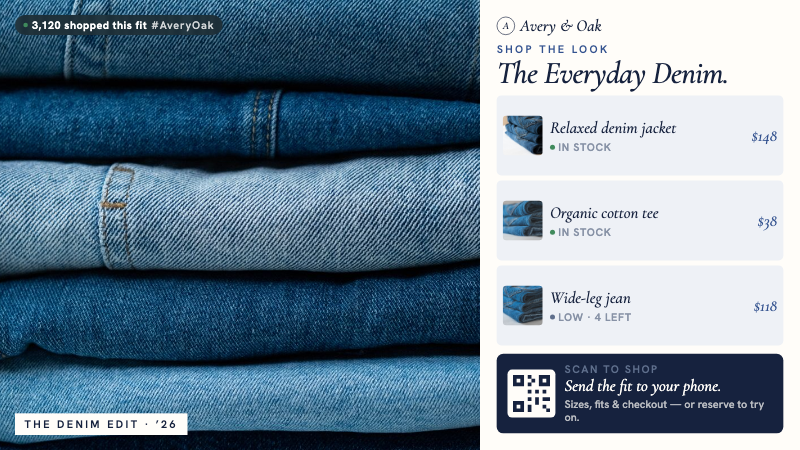
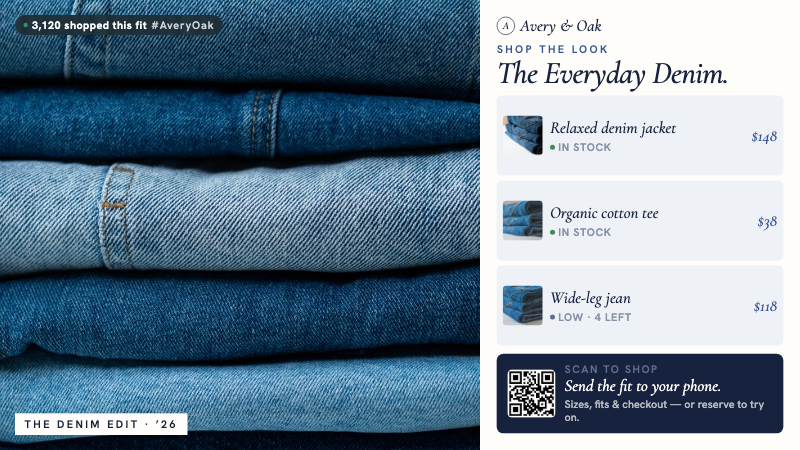
feat(templates): editable QR codes — paste a link, the QR regenerates
Greg: "all the QR codes that are baked in aren't editable, where do they even
take you? you should be able to dump in your website link and it updates."

Editor (PropertiesPanel): QR image slots (key ~/qr/) now get a QrUrlField —
paste a URL and it generates the QR client-side with the `qrcode` pkg
(dynamic import) and stores the PNG data-URL as the slot's image override.
Baked as a data-URL, so it scans even offline on the player. Manual image
pick still available as a fallback.

Boards: retail end-caps already had data-imgslot QR slots -> editable now with
zero board change. Fashion 01/04 static-SVG QRs retrofitted to
data-imgslot="scan.qr" (fallback SVG hides once a real QR is set) and baked a
real default QR (was a fake SVG that encoded nothing). Render-verified: default
shows a scannable QR; a pasted URL updates it on the board.

Remaining QR boards (fashion 07/08 variant markup + bar/church/gym/hospitality/
qsr/menus) use the same retrofit — follow-up.

Changed region(s): [[0.625, 0.8089, 0.7188, 0.9333]]

diff --git a/apps/web/public/templates/signage/fashion/04-new-arrivals.html b/apps/web/public/templates/signage/fashion/04-new-arrivals.html
@@ -47,7 +47,7 @@ html,body{margin:0;padding:0;height:100%;width:100%;background:#000;overflow:hid
 .stage[data-orient="portrait"] .top{flex-wrap:wrap}
 .stage[data-orient="portrait"] .scan{flex-wrap:wrap}
 .stage[data-orient="portrait"] .scan .members{margin-left:0}
-</style><script>/*EDUCMS-SHIM-V7*/(function(){try{
+.qr[data-imgslot].has-img{background-size:contain;background-repeat:no-repeat;background-position:center}.qr[data-imgslot].has-img>svg{display:none}</style><script>/*EDUCMS-SHIM-V7*/(function(){try{
 var editMode=false;
 // ── Gallery FREEZE mode ──────────────────────────────────────────────
 // Installed FIRST (this script is at end of <head>, before the board's own
@@ -93,7 +93,7 @@ addEventListener('message',function(e){try{var d=e.data;if(!d||typeof d!=='objec
     <article class="card" data-widget="a.3"><div class="ph placeholder" data-imgslot="a3.photo" data-img="/templates/signage/fashion/_img/04-sneaker-4.jpg"><div class="new" data-field="a3.tag">New</div><div class="stk"><span class="sd"></span><span data-field="a3.stk">In stock</span></div><div class="drop"><svg viewBox="0 0 24 24" fill="none" stroke="currentColor" stroke-width="1.4"><rect x="3" y="4" width="18" height="16" rx="2"/><circle cx="8.5" cy="9.5" r="1.8"/><path d="M21 16l-5-5L5 20"/></svg><b>Product photo</b></div></div><div class="b"><div class="nm" data-field="a3.name">Hi-Top Canvas</div><div class="price" data-field="a3.price">$95</div></div></article>
   </section>
   <div class="scan" data-widget="scan">
-    <div class="qr" aria-hidden="true"><svg viewBox="0 0 100 100" fill="#12141a"><path d="M0 0h30v30H0zM10 10v10h10V10zM70 0h30v30H70zM80 10v10h10V10zM0 70h30v30H0zM10 80v10h10V80zM40 0h10v10H40zM50 10h10v10H50zM40 20h10v10H40zM40 40h10v10H40zM60 40h10v10H60zM80 40h10v10H80zM40 60h10v10H40zM60 60h10v20H60zM80 60h20v10H80zM40 80h10v20H40zM80 80h10v10H80zM90 90h10v10H90z"/></svg></div>
[1 lines of base64/hex data omitted]
     <div><div class="l" data-field="scan.l">Scan to shop new</div><div class="v" data-field="scan.v">The full drop, sizes &amp; checkout — on your phone.</div></div>
     <div class="members"><div class="l2" data-field="scan.ml">Members</div><div class="v2" data-field="scan.mv">First pairs Thursday, 6 PM</div></div>
   </div>

diff --git a/apps/web/public/templates/signage/fashion/01-lookbook-flagship.html b/apps/web/public/templates/signage/fashion/01-lookbook-flagship.html
@@ -62,7 +62,7 @@ html,body{margin:0;padding:0;height:100%;width:100%;background:#000;overflow:hid
 .stage[data-orient="portrait"] .frame{grid-template-columns:1fr;grid-template-rows:1.25fr 1fr}
 .stage[data-orient="portrait"] .head h1{font-size:120px}
 .stage[data-orient="portrait"] .items{flex:none;margin-top:36px}
-</style><script>/*EDUCMS-SHIM-V7*/(function(){try{
+.qr[data-imgslot].has-img{background-size:contain;background-repeat:no-repeat;background-position:center}.qr[data-imgslot].has-img>svg{display:none}</style><script>/*EDUCMS-SHIM-V7*/(function(){try{
 var editMode=false;
 // ── Gallery FREEZE mode ──────────────────────────────────────────────
 // Installed FIRST (this script is at end of <head>, before the board's own
@@ -117,7 +117,7 @@ addEventListener('message',function(e){try{var d=e.data;if(!d||typeof d!=='objec
       <div class="item" data-widget="i.2"><div class="thumb" data-imgslot="i2.photo" data-img="/templates/signage/fashion/_img/01-thumb-jean.jpg"><div class="ph"><svg viewBox="0 0 24 24" fill="none" stroke="currentColor" stroke-width="1.5"><rect x="3" y="4" width="18" height="16" rx="2"/><circle cx="8.5" cy="9.5" r="1.8"/><path d="M21 16l-5-5L5 20"/></svg></div></div><div class="mid"><div class="nm" data-field="i2n">Wide-leg jean</div><div class="stk low" data-widget="i2stk"><span class="sd"></span><span data-field="i2s">Low · 4 left</span></div></div><div class="pr" data-field="i2p">$118</div></div>
     </div>
     <div class="scan" data-widget="scan">
-      <div class="qr" aria-hidden="true"><svg viewBox="0 0 100 100" fill="#16223e"><path d="M0 0h30v30H0zM10 10v10h10V10zM70 0h30v30H70zM80 10v10h10V10zM0 70h30v30H0zM10 80v10h10V80zM40 0h10v10H40zM50 10h10v10H50zM40 20h10v10H40zM40 40h10v10H40zM60 40h10v10H60zM80 40h10v10H80zM40 60h10v10H40zM60 60h10v20H60zM80 60h20v10H80zM40 80h10v20H40zM80 80h10v10H80zM90 90h10v10H90z"/></svg></div>
[1 lines of base64/hex data omitted]
       <div><div class="l" data-field="scan.l">Scan to shop</div><div class="v" data-field="scan.v">Send the fit to your phone.</div><div class="s" data-field="scan.s">Sizes, fits &amp; checkout — or reserve to try on.</div></div>
     </div>
   </section>

diff --git a/apps/web/src/components/template-builder/PropertiesPanel.tsx b/apps/web/src/components/template-builder/PropertiesPanel.tsx
@@ -7449,21 +7449,35 @@ function ExternalHtmlTextEditor({
           <div className="text-[10px] font-bold text-indigo-500 uppercase tracking-widest border-b border-slate-200 pb-1">
             Images
           </div>
-          {discoveredImages.map((img) => (
-            <div
-              key={`img:${img.key}`}
-              data-edit-img={img.key}
-              onFocusCapture={() => pingHighlight(img.key)}
-              onClickCapture={() => pingHighlight(img.key)}
-            >
-              <AssetPickerField
-                label={img.aspect ? `${img.label} (${img.aspect})` : img.label}
-                kind="image"
-                value={imageOverrides[img.key] || ''}
-                onChange={(v) => setImageOverride(img.key, v)}
-              />
-            </div>
-          ))}
+          {discoveredImages.map((img) => {
+            // A QR slot (key contains "qr", e.g. scan.qr / product.qr) gets the
+            // paste-a-URL → auto-generate control, plus the normal picker as a
+            // manual fallback (upload your own QR image).
+            const isQr = /(^|[.\-_])qr([.\-_]|$)|qrcode/i.test(img.key);
+            return (
+              <div
+                key={`img:${img.key}`}
+                data-edit-img={img.key}
+                onFocusCapture={() => pingHighlight(img.key)}
+                onClickCapture={() => pingHighlight(img.key)}
+                className="space-y-2"
+              >
+                {isQr && (
+                  <QrUrlField
+                    label={`${img.label} — from a link`}
+                    value={imageOverrides[img.key] || ''}
+                    onChange={(v) => setImageOverride(img.key, v)}
+                  />
+                )}
+                <AssetPickerField
+                  label={isQr ? 'Or pick a QR image' : img.aspect ? `${img.label} (${img.aspect})` : img.label}
+                  kind="image"
+                  value={imageOverrides[img.key] || ''}
+                  onChange={(v) => setImageOverride(img.key, v)}
+                />
+              </div>
+            );
+          })}
         </div>
       )}
       {sectionOrder.map((sec) => (
@@ -7591,6 +7605,61 @@ function ExternalHtmlTextEditor({
           ))}
         </div>
       )}
+    </div>
+  );
+}
+
+/**
+ * QrUrlField — for a QR image slot on an EXTERNAL_HTML board. Operator pastes
+ * their website link; we generate a QR **client-side** with the `qrcode` pkg
+ * (dynamic-import, keeps it out of the initial bundle) and store the resulting
+ * PNG data-URL as the slot's image override. Baked as a data-URL, so the QR
+ * displays offline on the player — no server/network at scan-display time.
+ * (Greg 2026-07-24: "you should be able to dump in your website link and it
+ * updates the QR code.")
+ */
+function QrUrlField({ label, value, onChange }: { label: string; value: string; onChange: (dataUrl: string) => void }) {
+  const [url, setUrl] = useState('');
+  const [busy, setBusy] = useState(false);
+  const [err, setErr] = useState('');
+  const timer = useRef<ReturnType<typeof setTimeout> | null>(null);
+  const gen = (raw: string) => {
+    setUrl(raw);
+    setErr('');
+    if (timer.current) clearTimeout(timer.current);
+    const clean = raw.trim();
+    if (!clean) { onChange(''); return; }
+    timer.current = setTimeout(() => {
+      setBusy(true);
+      import('qrcode')
+        .then((m) => ((m as any).default || m).toDataURL(clean, { width: 512, margin: 1, errorCorrectionLevel: 'M' }))
+        .then((dataUrl: string) => onChange(dataUrl))
+        .catch(() => setErr('Could not generate a QR for that link.'))
+        .finally(() => setBusy(false));
+    }, 400);
+  };
+  return (
+    <div>
+      <label className="block text-[10px] font-semibold text-slate-500 mb-1.5">{label}</label>
+      <div className="flex items-center gap-2">
+        {value ? (
+          // eslint-disable-next-line @next/next/no-img-element
+          <img src={value} alt="QR preview" className="w-14 h-14 rounded border border-slate-200 bg-white shrink-0 object-contain p-1" />
+        ) : (
+          <div className="w-14 h-14 rounded border border-dashed border-slate-300 shrink-0 grid place-items-center text-[9px] font-semibold text-slate-400">QR</div>
+        )}
+        <input
+          type="url"
+          inputMode="url"
+          value={url}
+          placeholder="https://yourstore.com/shop"
+          onChange={(e) => gen(e.target.value)}
+          className="flex-1 min-w-0 rounded border border-slate-200 px-2 py-1.5 text-sm focus:border-indigo-400 focus:outline-none"
+        />
+      </div>
+      <p className="text-[10px] text-slate-500 mt-1 leading-snug">
+        {busy ? 'Generating QR…' : err ? <span className="text-rose-500">{err}</span> : 'Paste your link — the QR code regenerates automatically. It bakes into the board, so it scans even offline.'}
+      </p>
     </div>
   );
 }
